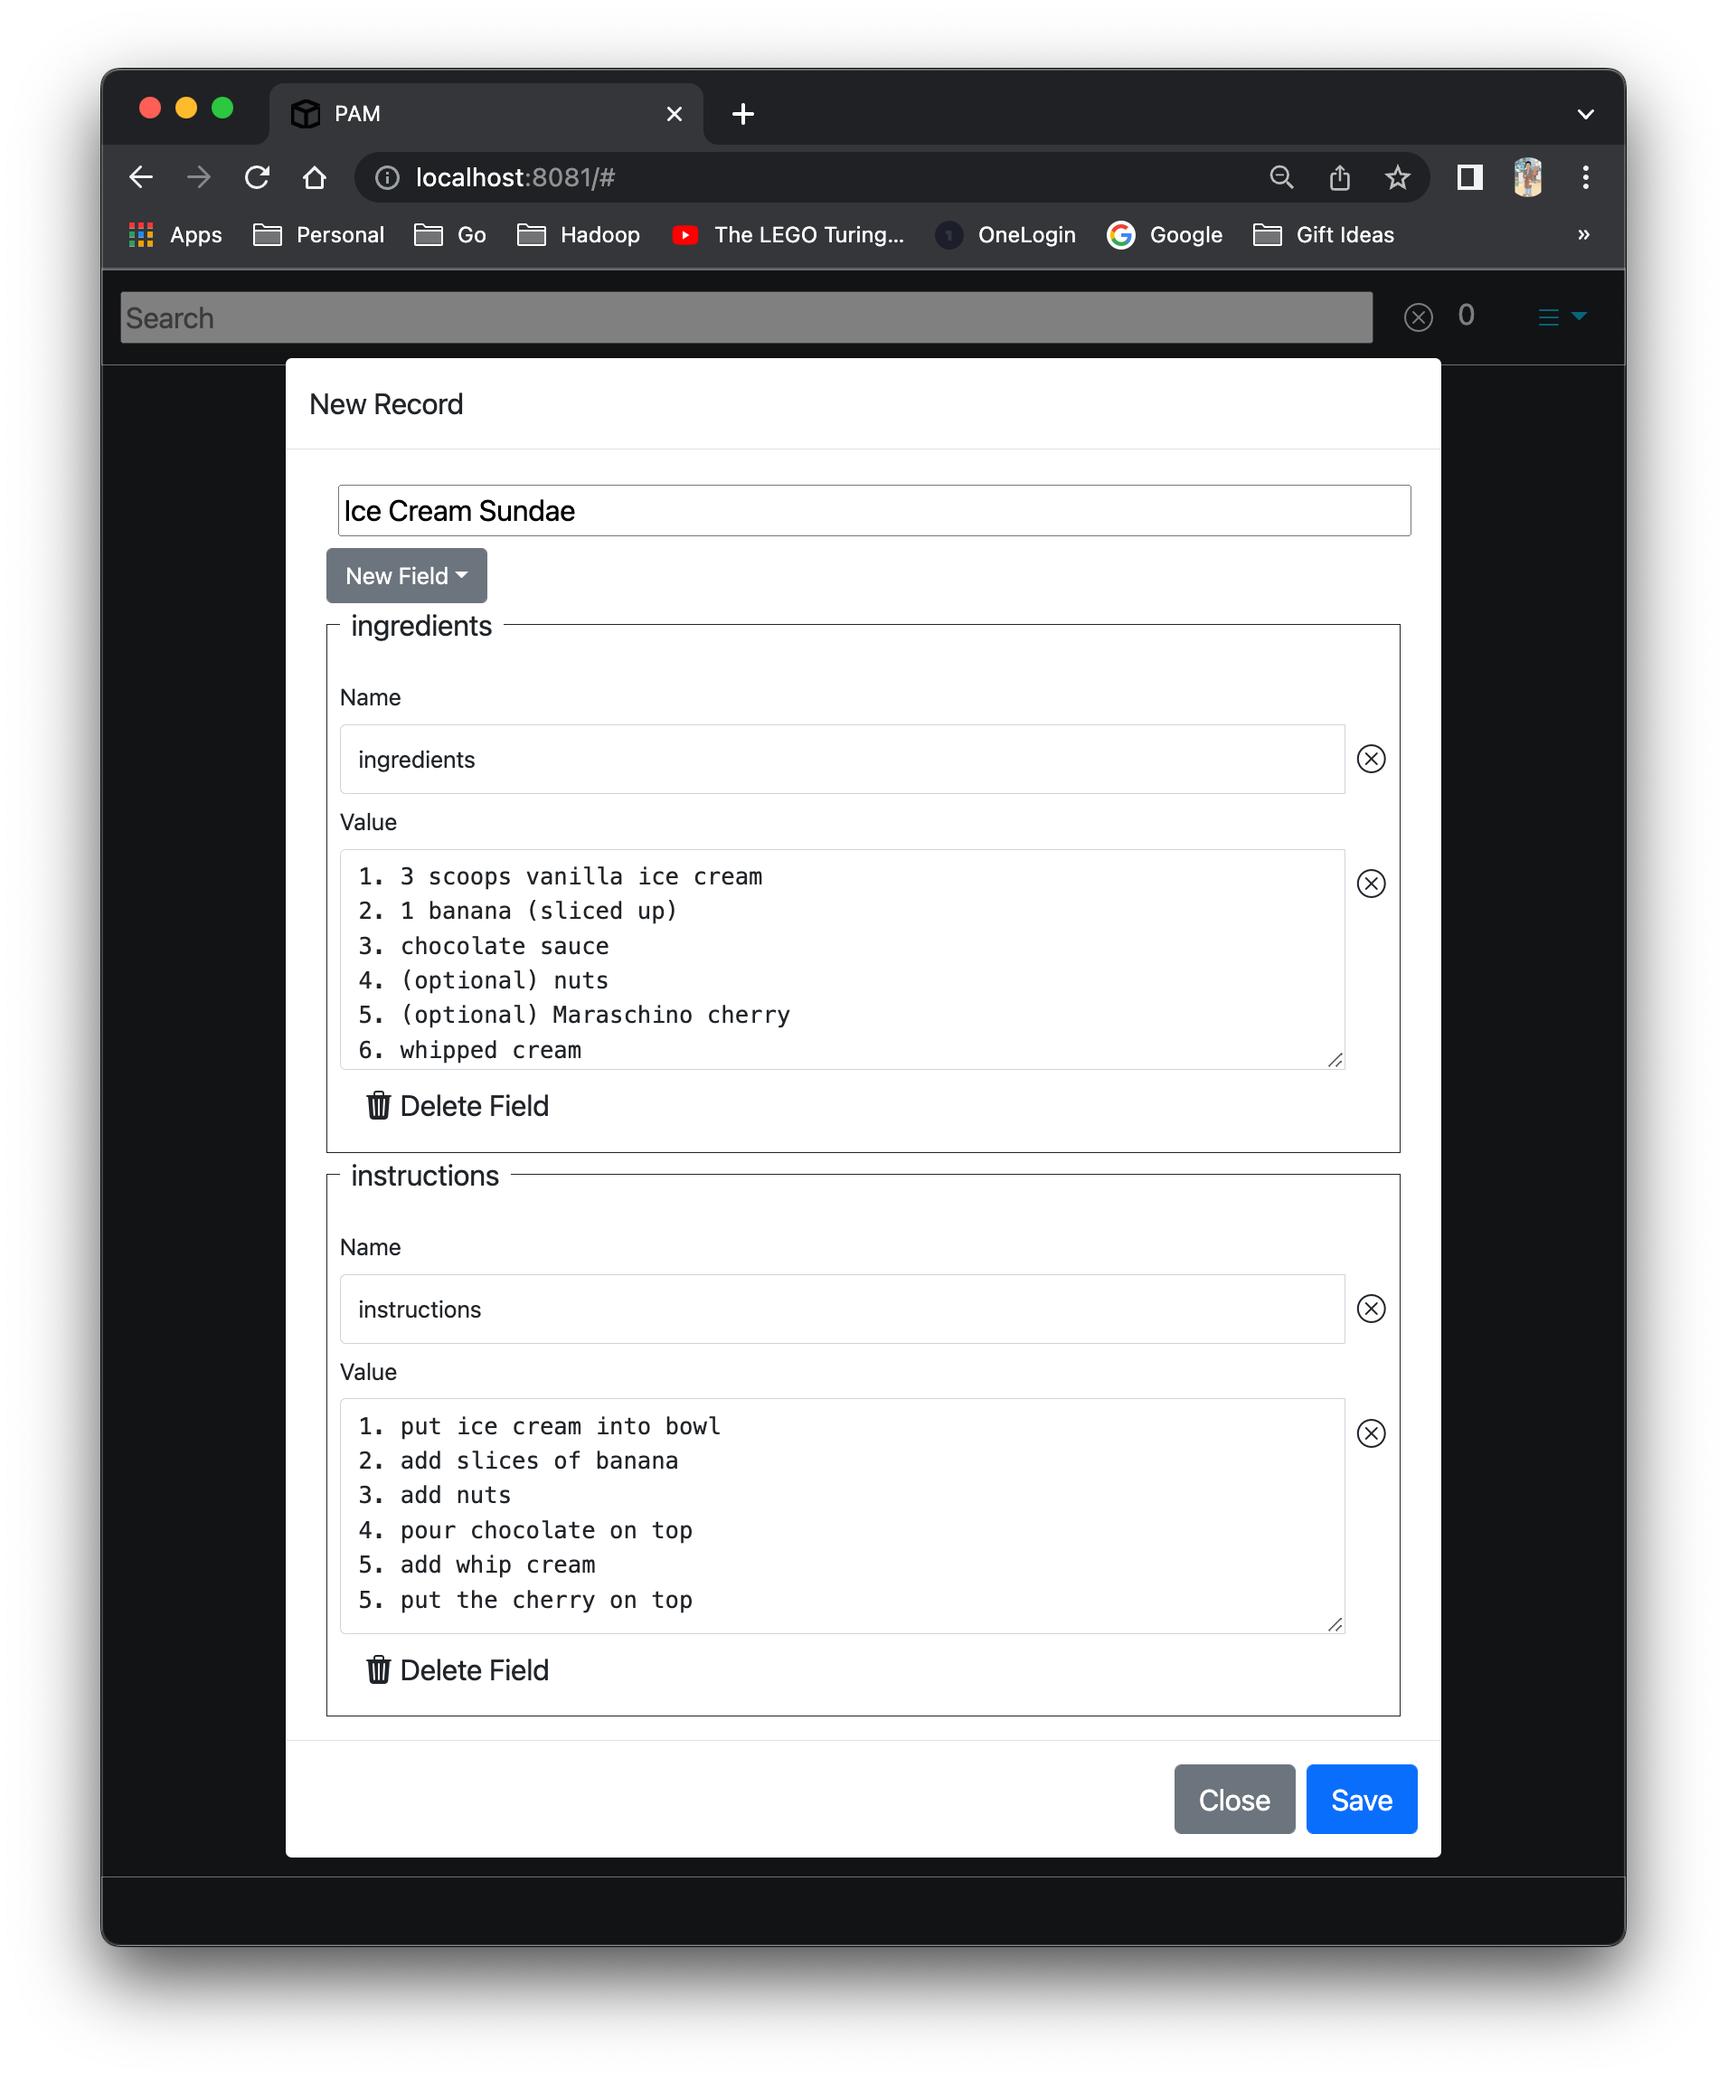
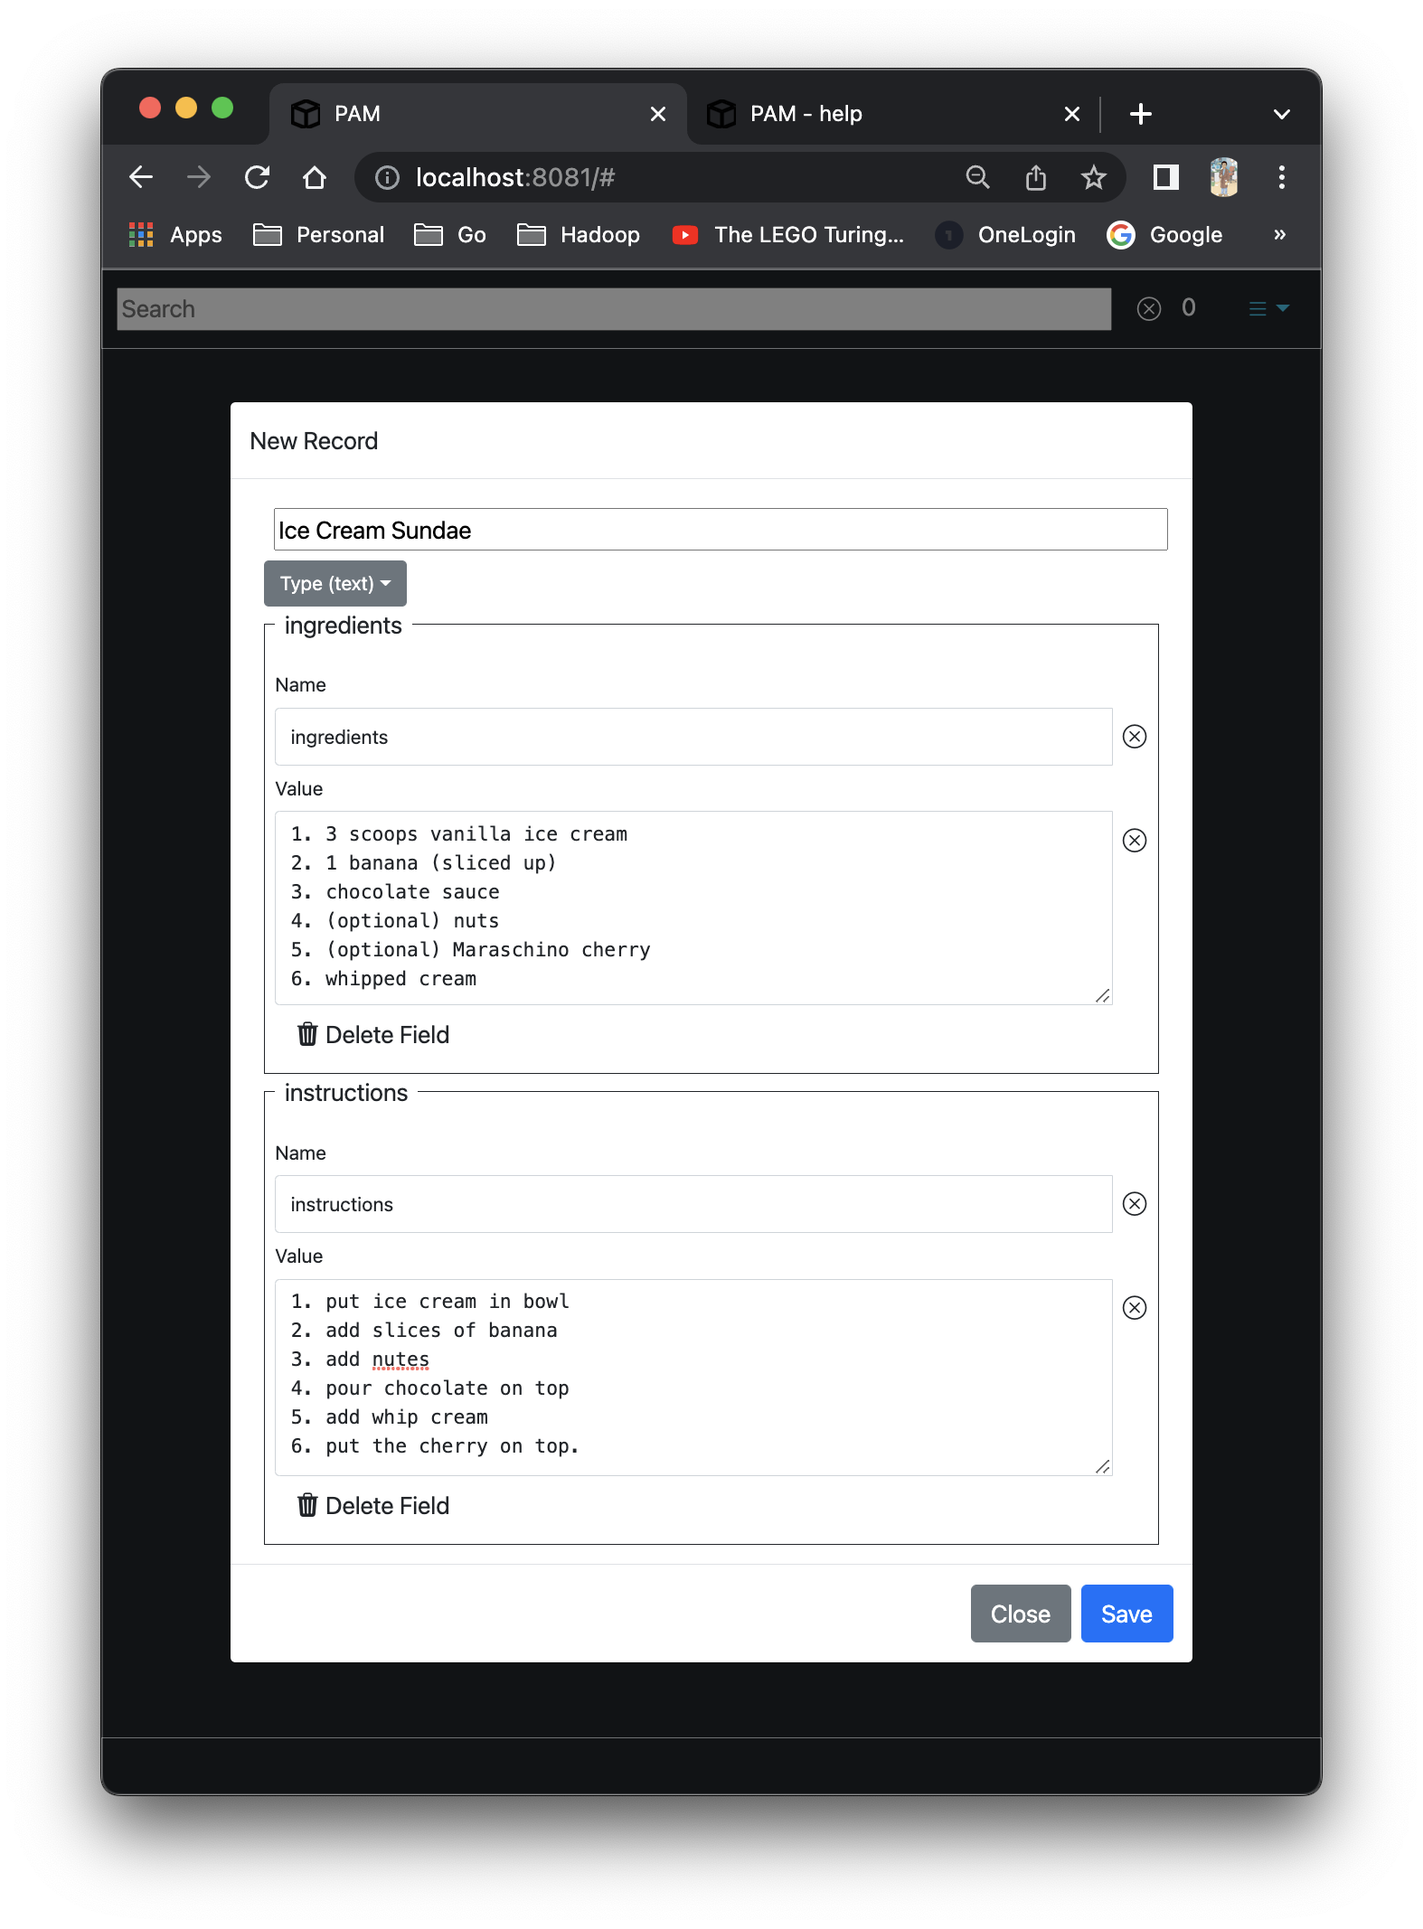
fix bug in the pam-ice-cream-sundae.png

Changed region(s): [[0.0311, 0.0309, 0.9651, 0.9588]]

diff --git a/README.md b/README.md
@@ -202,7 +202,30 @@ example, each recipe would be a single record, a collection of recipes
 for, say, desserts would be a file of dessert recipe records where each
 record or recipe would have three parts: a title (the name of the
 recipe), the ingredients (a field) and the instructions (another
-field). This is what a simple dessert recipe record might look like in _PAM_.
+field). Further assume that you have a simple dessert recipe like this
+written on a card.
+
+```
+Ice Cream Sundae
+
+ingredients
+1. 3 scoops vanilla ice cream
+2. 1 banana (sliced up)
+3. chocolate sauce
+4. (optional) nuts
+5. (optional) Maraschino cherry
+6. whipped cream
+
+instructions
+1. put ice cream in bowl
+2. add slices of banana
+3. add nutes
+4. pour chocolate on top
+5. add whip cream
+6. put the cherry on top.
+```
+
+This is what it would look like in _PAM_.
 
 <img src="www/help/pam-ice-cream-sundae.png" alt="ice-cream-sundae-example">
 
